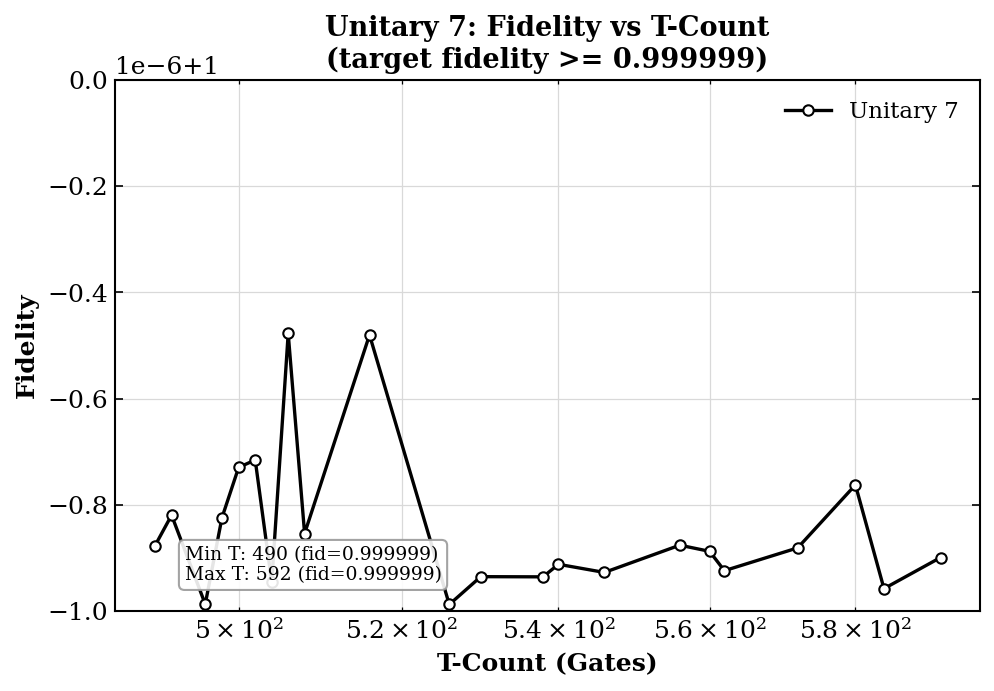
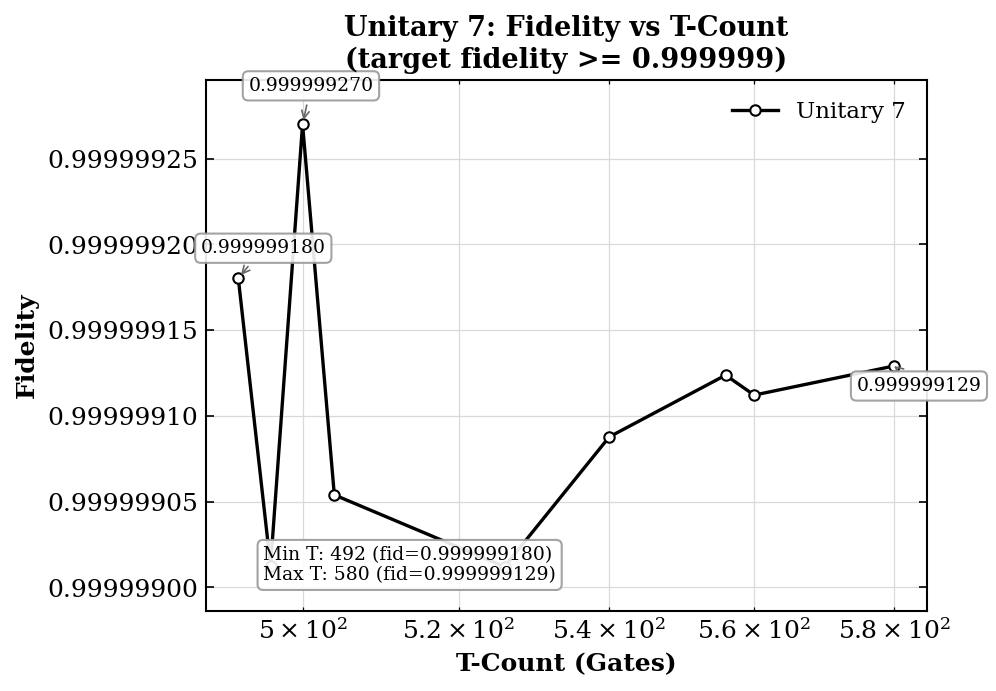
FInished image 7

diff --git a/unitary/plot7_mp.py b/unitary/plot7_mp.py
@@ -20,6 +20,7 @@ import numpy as np
 import matplotlib
 matplotlib.use("Agg")
 import matplotlib.pyplot as plt
+from matplotlib.ticker import ScalarFormatter
 
 from plot10 import apply_scientific_style
 from unitary7 import (
@@ -103,20 +104,24 @@ def plot_unitary7(out_path, n_candidates, seed, workers, mp_start):
     )
     plt.grid(True, which="both")
     plt.legend(loc="best", fontsize=11)
+    fid_min = float(np.min(sorted_fid))
     fid_max = float(np.max(sorted_fid))
-    y_min = 0.999999
-    span = max(fid_max - y_min, 0.0)
-    pad = max(span * 0.3, 5e-7)
-    y_max = min(1.0, fid_max + pad)
-    if y_max <= y_min:
-        y_max = min(1.0, y_min + 1e-6)
-    plt.ylim(y_min, y_max)
+    if fid_max == fid_min:
+        pad = max(1e-12, fid_min * 1e-9)
+    else:
+        pad = 0.10 * (fid_max - fid_min)
+    fid_min = max(0.0, fid_min - pad)
+    fid_max = min(1.0, fid_max + pad)
+    plt.ylim(fid_min, fid_max)
+    ax = plt.gca()
+    ax.yaxis.set_major_formatter(ScalarFormatter(useOffset=False))
+    ax.ticklabel_format(axis="y", style="plain")
 
     if sorted_t:
         min_t_idx = 0
         max_t_idx = len(sorted_t) - 1
-        textstr = f"Min T: {sorted_t[min_t_idx]} (fid={sorted_fid[min_t_idx]:.6f})\n"
-        textstr += f"Max T: {sorted_t[max_t_idx]} (fid={sorted_fid[max_t_idx]:.6f})"
+        textstr = f"Min T: {sorted_t[min_t_idx]} (fid={sorted_fid[min_t_idx]:.9f})\n"
+        textstr += f"Max T: {sorted_t[max_t_idx]} (fid={sorted_fid[max_t_idx]:.9f})"
         plt.text(
             0.08,
             0.05,
@@ -126,6 +131,29 @@ def plot_unitary7(out_path, n_candidates, seed, workers, mp_start):
             verticalalignment="bottom",
             bbox=dict(boxstyle="round", facecolor="white", edgecolor="0.6", alpha=0.9),
         )
+
+        # Annotate three analytical points: min T, max T, best fidelity
+        max_fid_idx = int(np.argmax(sorted_fid))
+        label_indices = []
+        for idx in (min_t_idx, max_t_idx, max_fid_idx):
+            if idx not in label_indices:
+                label_indices.append(idx)
+            if len(label_indices) == 3:
+                break
+        offsets = [(-18, 12), (-18, -12), (-26, 16)]
+        for k, idx in enumerate(label_indices):
+            t_val = sorted_t[idx]
+            fid_val = sorted_fid[idx]
+            dx, dy = offsets[k % len(offsets)]
+            plt.annotate(
+                f"{fid_val:.9f}",
+                xy=(t_val, fid_val),
+                xytext=(dx, dy),
+                textcoords="offset points",
+                fontsize=9,
+                bbox=dict(boxstyle="round", facecolor="white", edgecolor="0.6", alpha=0.9),
+                arrowprops=dict(arrowstyle="->", color="0.4", lw=0.8),
+            )
 
     plt.tight_layout()
     plt.savefig(out_path, dpi=150, bbox_inches="tight")
